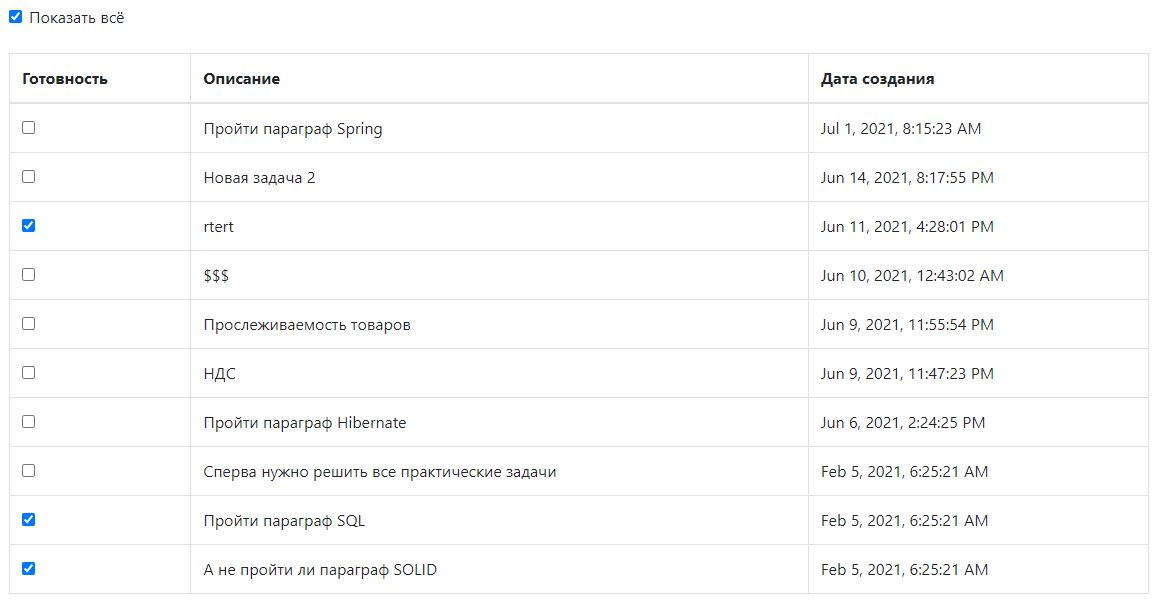
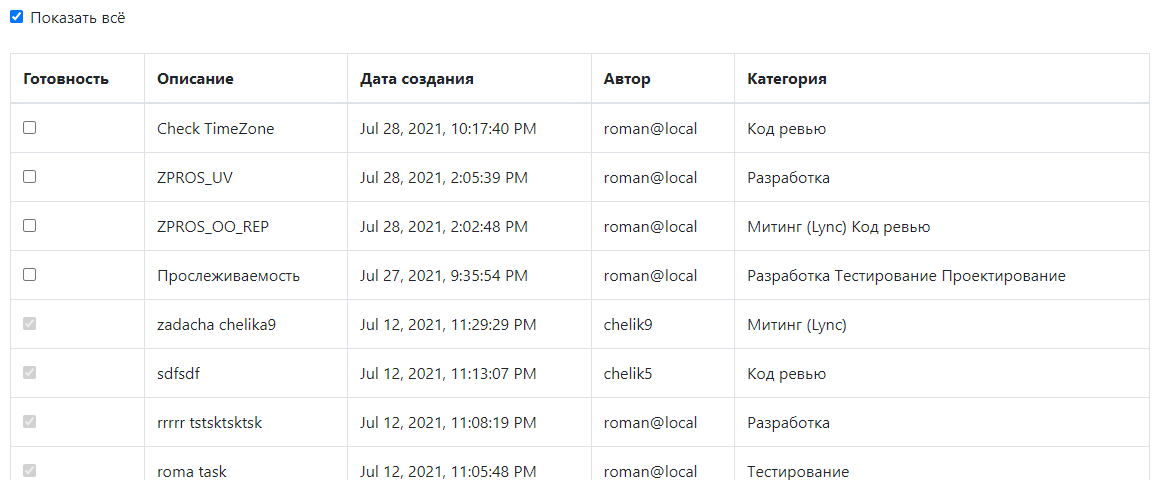
fixed categories and date

diff --git a/src/main/webapp/todoscripts.js b/src/main/webapp/todoscripts.js
@@ -86,10 +86,7 @@ function createItem() {
         valid = false;
         alert("Пожалуйста, заполните все поля.");
     } else {
-        let strCIds = '';
-        for (let i = 0; i < cIds.length; i++) {
-            strCIds += cIds[i] + '_';
-        }
+        let strCIds = JSON.stringify(cIds);
         $.ajax({
             type: "POST",
             url: 'http://localhost:8080/job4j_todo/item.do',

diff --git a/src/main/java/ru/job4j/todo/model/Item.java b/src/main/java/ru/job4j/todo/model/Item.java
@@ -1,7 +1,7 @@
 package ru.job4j.todo.model;
 
 import javax.persistence.*;
-import java.sql.Timestamp;
+import java.util.Date;
 import java.time.LocalDateTime;
 import java.util.ArrayList;
 import java.util.List;
@@ -16,7 +16,8 @@ public class Item {
 
     private String description;
 
-    private Timestamp created;
+    @Temporal(TemporalType.TIMESTAMP)
+    private Date created;
 
     private boolean done;
 
@@ -34,25 +35,25 @@ public class Item {
     }
 
     public Item(String description, User user) {
-        this(description, Timestamp.valueOf(LocalDateTime.now()), false);
+        this(description, new Date(System.currentTimeMillis()), false);
         this.user = user;
         this.userLogin = this.user.getLogin();
     }
 
-    public Item(String description, Timestamp created, boolean done) {
+    public Item(String description, Date created, boolean done) {
         this.description = description;
         this.created = created;
         this.done = done;
     }
 
-    public Item(int id, String description, Timestamp created, boolean done) {
+    public Item(int id, String description, Date created, boolean done) {
         this.id = id;
         this.description = description;
         this.created = created;
         this.done = done;
     }
 
-    public Item(int id, String description, Timestamp created, boolean done, User user) {
+    public Item(int id, String description, Date created, boolean done, User user) {
         this.id = id;
         this.description = description;
         this.created = created;
@@ -60,7 +61,7 @@ public class Item {
         this.user = user;
     }
 
-    public Item(int id, String description, Timestamp created, boolean done, User user, List<Category> categories) {
+    public Item(int id, String description, Date created, boolean done, User user, List<Category> categories) {
         this.id = id;
         this.description = description;
         this.created = created;
@@ -85,11 +86,11 @@ public class Item {
         this.description = description;
     }
 
-    public Timestamp getCreated() {
+    public Date getCreated() {
         return created;
     }
 
-    public void setCreated(Timestamp created) {
+    public void setCreated(Date created) {
         this.created = created;
     }
 

diff --git a/src/main/java/ru/job4j/todo/service/ToDo.java b/src/main/java/ru/job4j/todo/service/ToDo.java
@@ -30,14 +30,12 @@ public class ToDo {
 
     public void saveItem(final Item item, String[] categoryIds) throws SQLException {
         try {
-            List<Category> categories = storage.getAllCategories();
-            for (Category category : categories) {
-                for (String catId : categoryIds) {
-                    if (Objects.equals(category.getId(), Integer.parseInt(catId))) {
-                        item.getCategories().add(category);
-                    }
-                }
-            }
+//            for (String catId : categoryIds) {
+//                    item.getCategories().add(storage.findCategoryById(Integer.parseInt(catId)));
+//            }
+            Arrays.stream(categoryIds).forEach(
+                    catId -> item.getCategories().add(storage.findCategoryById(Integer.parseInt(catId)))
+            );
             storage.saveItem(item);
         } catch (SQLException exception) {
             LOG.error("SQL Exception: " + exception.getMessage(), exception);

diff --git a/src/main/java/ru/job4j/todo/controller/ItemServlet.java b/src/main/java/ru/job4j/todo/controller/ItemServlet.java
@@ -1,5 +1,6 @@
 package ru.job4j.todo.controller;
 
+import com.google.gson.Gson;
 import ru.job4j.todo.model.Item;
 import ru.job4j.todo.model.User;
 import ru.job4j.todo.service.ToDo;
@@ -20,7 +21,8 @@ public class ItemServlet extends HttpServlet {
         req.setCharacterEncoding("UTF-8");
         String description = req.getParameter("description");
         String strCIds = req.getParameter("cIds");
-        String[] cIds = strCIds.split("_");
+        Gson gson = new Gson();
+        String[] cIds = gson.fromJson(strCIds, String[].class);
         User curUser = (User) req.getSession().getAttribute("user");
         try {
             ToDo.getInstance().saveItem(

diff --git a/src/main/java/ru/job4j/todo/persistence/HbmStorage.java b/src/main/java/ru/job4j/todo/persistence/HbmStorage.java
@@ -54,6 +54,11 @@ public class HbmStorage implements Storage, AutoCloseable {
     }
 
     @Override
+    public Category findCategoryById(int id) {
+        return tx(session -> session.get(Category.class, id));
+    }
+
+    @Override
     public List<Category> getAllCategories() {
         return tx(session -> session.createQuery("select c from Category c", Category.class).list());
     }

diff --git a/src/main/java/ru/job4j/todo/persistence/Storage.java b/src/main/java/ru/job4j/todo/persistence/Storage.java
@@ -25,4 +25,6 @@ public interface Storage {
     User saveUser(User user) throws SQLException;
 
     List<Category> getAllCategories();
+
+    Category findCategoryById(int id);
 }

diff --git a/README.md b/README.md
@@ -5,8 +5,13 @@
 **To-do list**
 
 В системе есть возможность добавлять новые задания.
-<br>Можно отобразить на список как со всеми заданиями,
+<br>Есть страницы для авторизации и регистрации
+<br>пользователя.
+<br>Добавлять новые задания и менять статус заданий может 
+<br>только авторизованный пользователь.
+<br>Можно отобразить список как со всеми заданиями,
 <br>так и только с невыполненными.
+
 
 ## Возможности
 
@@ -18,3 +23,9 @@
 
 *Список всех заданий* <br>
 ![alt text](src/main/webapp/images/alllist.JPG)
+
+*Страница авторизации* <br>
+![alt text](src/main/webapp/images/auth.JPG)
+
+*Страница регистрации* <br>
+![alt text](src/main/webapp/images/reg.JPG)
